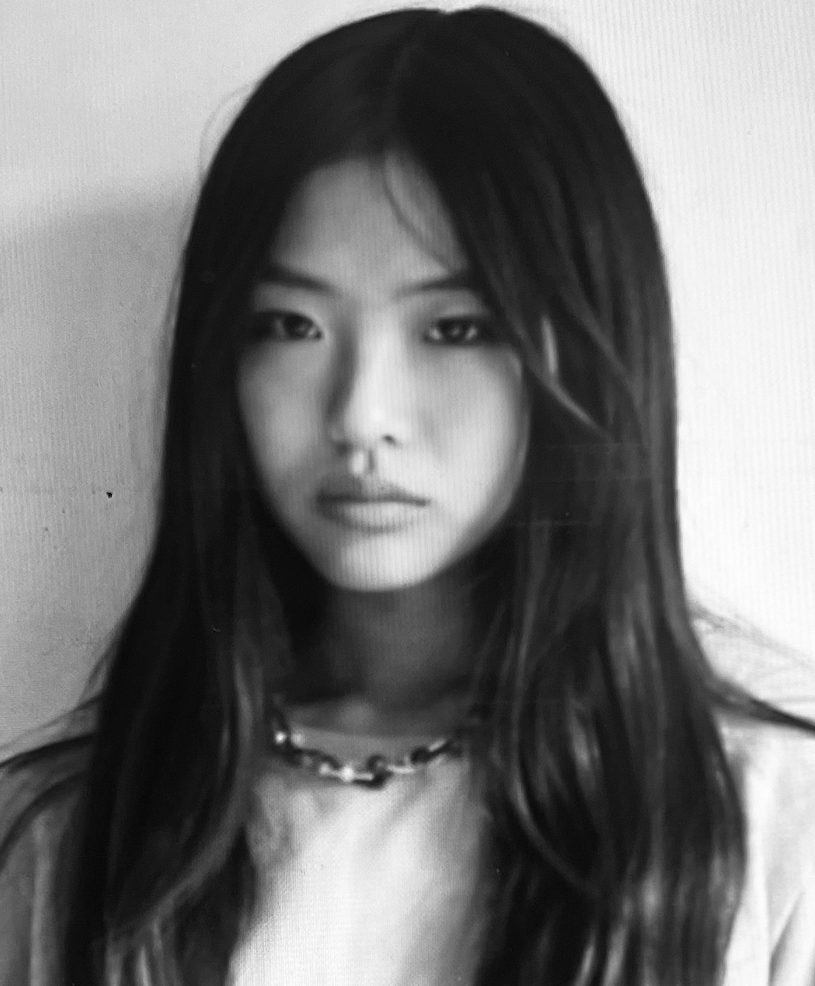
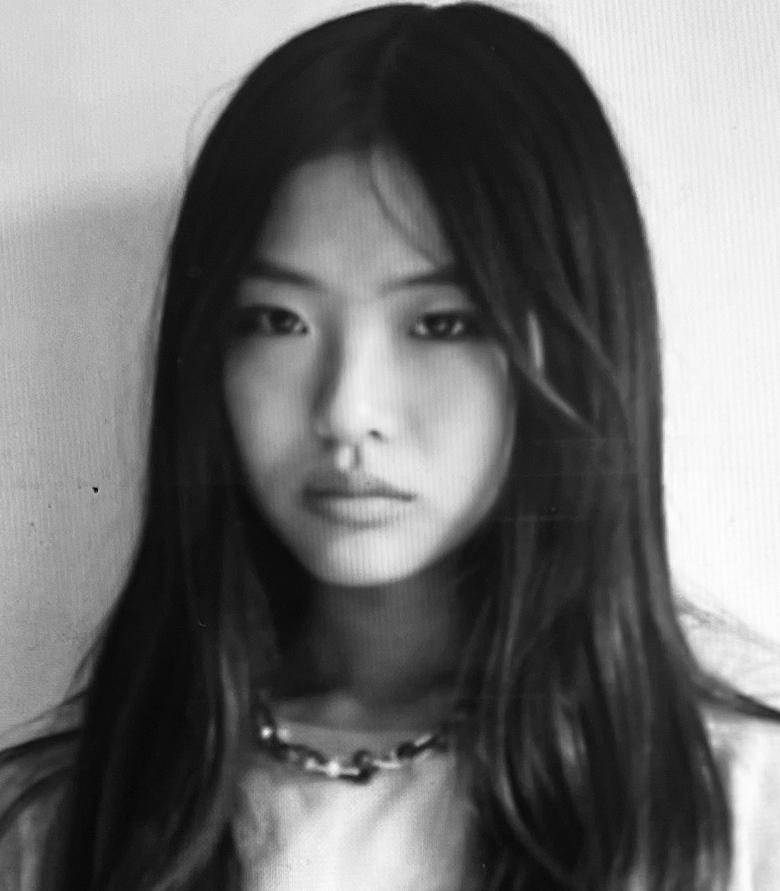
Update Profile Pic, Expelling Lens Gradient, Text Color Refinements

diff --git a/css/style.css b/css/style.css
@@ -12,7 +12,7 @@
     font-weight: normal;
     font-style: normal;
 }
-
+ 
 @font-face {
     font-family: 'PPNeueMontrealBook';
     src: url('../font/OTF/PPNeueMontreal-Book.otf') format('opentype');
@@ -46,12 +46,12 @@
 
 :root {
     --background-color: black;
-    --text-color: rgb(196, 196, 196);
+    --text-color: rgb(231, 231, 231);
     --nav-link-color: rgb(196, 196, 196);
     --nav-link-hover-color: rgba(128, 128, 128, 0.293);
-    --section-heading-color: rgb(196, 196, 196);
+    --section-heading-color:  rgb(231, 231, 231);
     --modal-bg-color: #0c0c0c;
-    --modal-text-color: rgba(255, 255, 255, 0.756);
+    --modal-text-color: rgb(231, 231, 231);
     --footer-bg-color: #131313;
     --work-img-filter: blur(0px) saturate(0.4) brightness(0.6);
     --work-img-hover-filter: saturate(0.9) brightness(1);
@@ -60,7 +60,7 @@
     --carousel-arrow-bg: rgba(34, 34, 34, 0.9);
     --carousel-arrow-border: rgba(84, 94, 31, 0.337);
     --carousel-arrow-hover-bg: rgb(0, 0, 0);
-    --close-btn-color: #a9a9a9;
+    --close-btn-color:  rgb(231, 231, 231);
     --close-btn-hover-color: #963737;
 }
 
@@ -222,7 +222,7 @@ img {
     object-fit: contain;
     border-radius: 0;
 }
-
+/*
 .lens {
     position: fixed;
     top: 0;
@@ -232,12 +232,12 @@ img {
     background: radial-gradient(
         circle at center,
         transparent 0%,
-        rgba(0, 0, 0, 0.0) 70%,
-        rgba(0, 0, 0, 0.15) 100%
+        rgba(158, 158, 158, 0) 70%,
+        rgba(166, 166, 166, 0.15) 90%
     );
     z-index: 9999;
     pointer-events: none;
-}
+}*/
 
 .top-band {
     display: none;
@@ -524,7 +524,7 @@ h1 {
     border-radius: 200px;
     padding: 2px;
     width: 220px;
-    filter: contrast(1.1) brightness(1.2);
+    /*filter: contrast(1.1) brightness(1.2);*/
 }
 
 .aboutwords {

diff --git a/index.html b/index.html
@@ -215,13 +215,13 @@
             </div>
         </div>
     </div>
-</div>
+</div>  
 
 <section id="about">
     <div class="aboutcontent">
         <div class="leftColumn"> 
             <div class="aboutpic">
-                <img src="./img/itsMe.png">
+                <img src="./img/vamped.jpg">
             </div>
            <!-- <div class="personalGallery">
                 <div class="personalItem">
